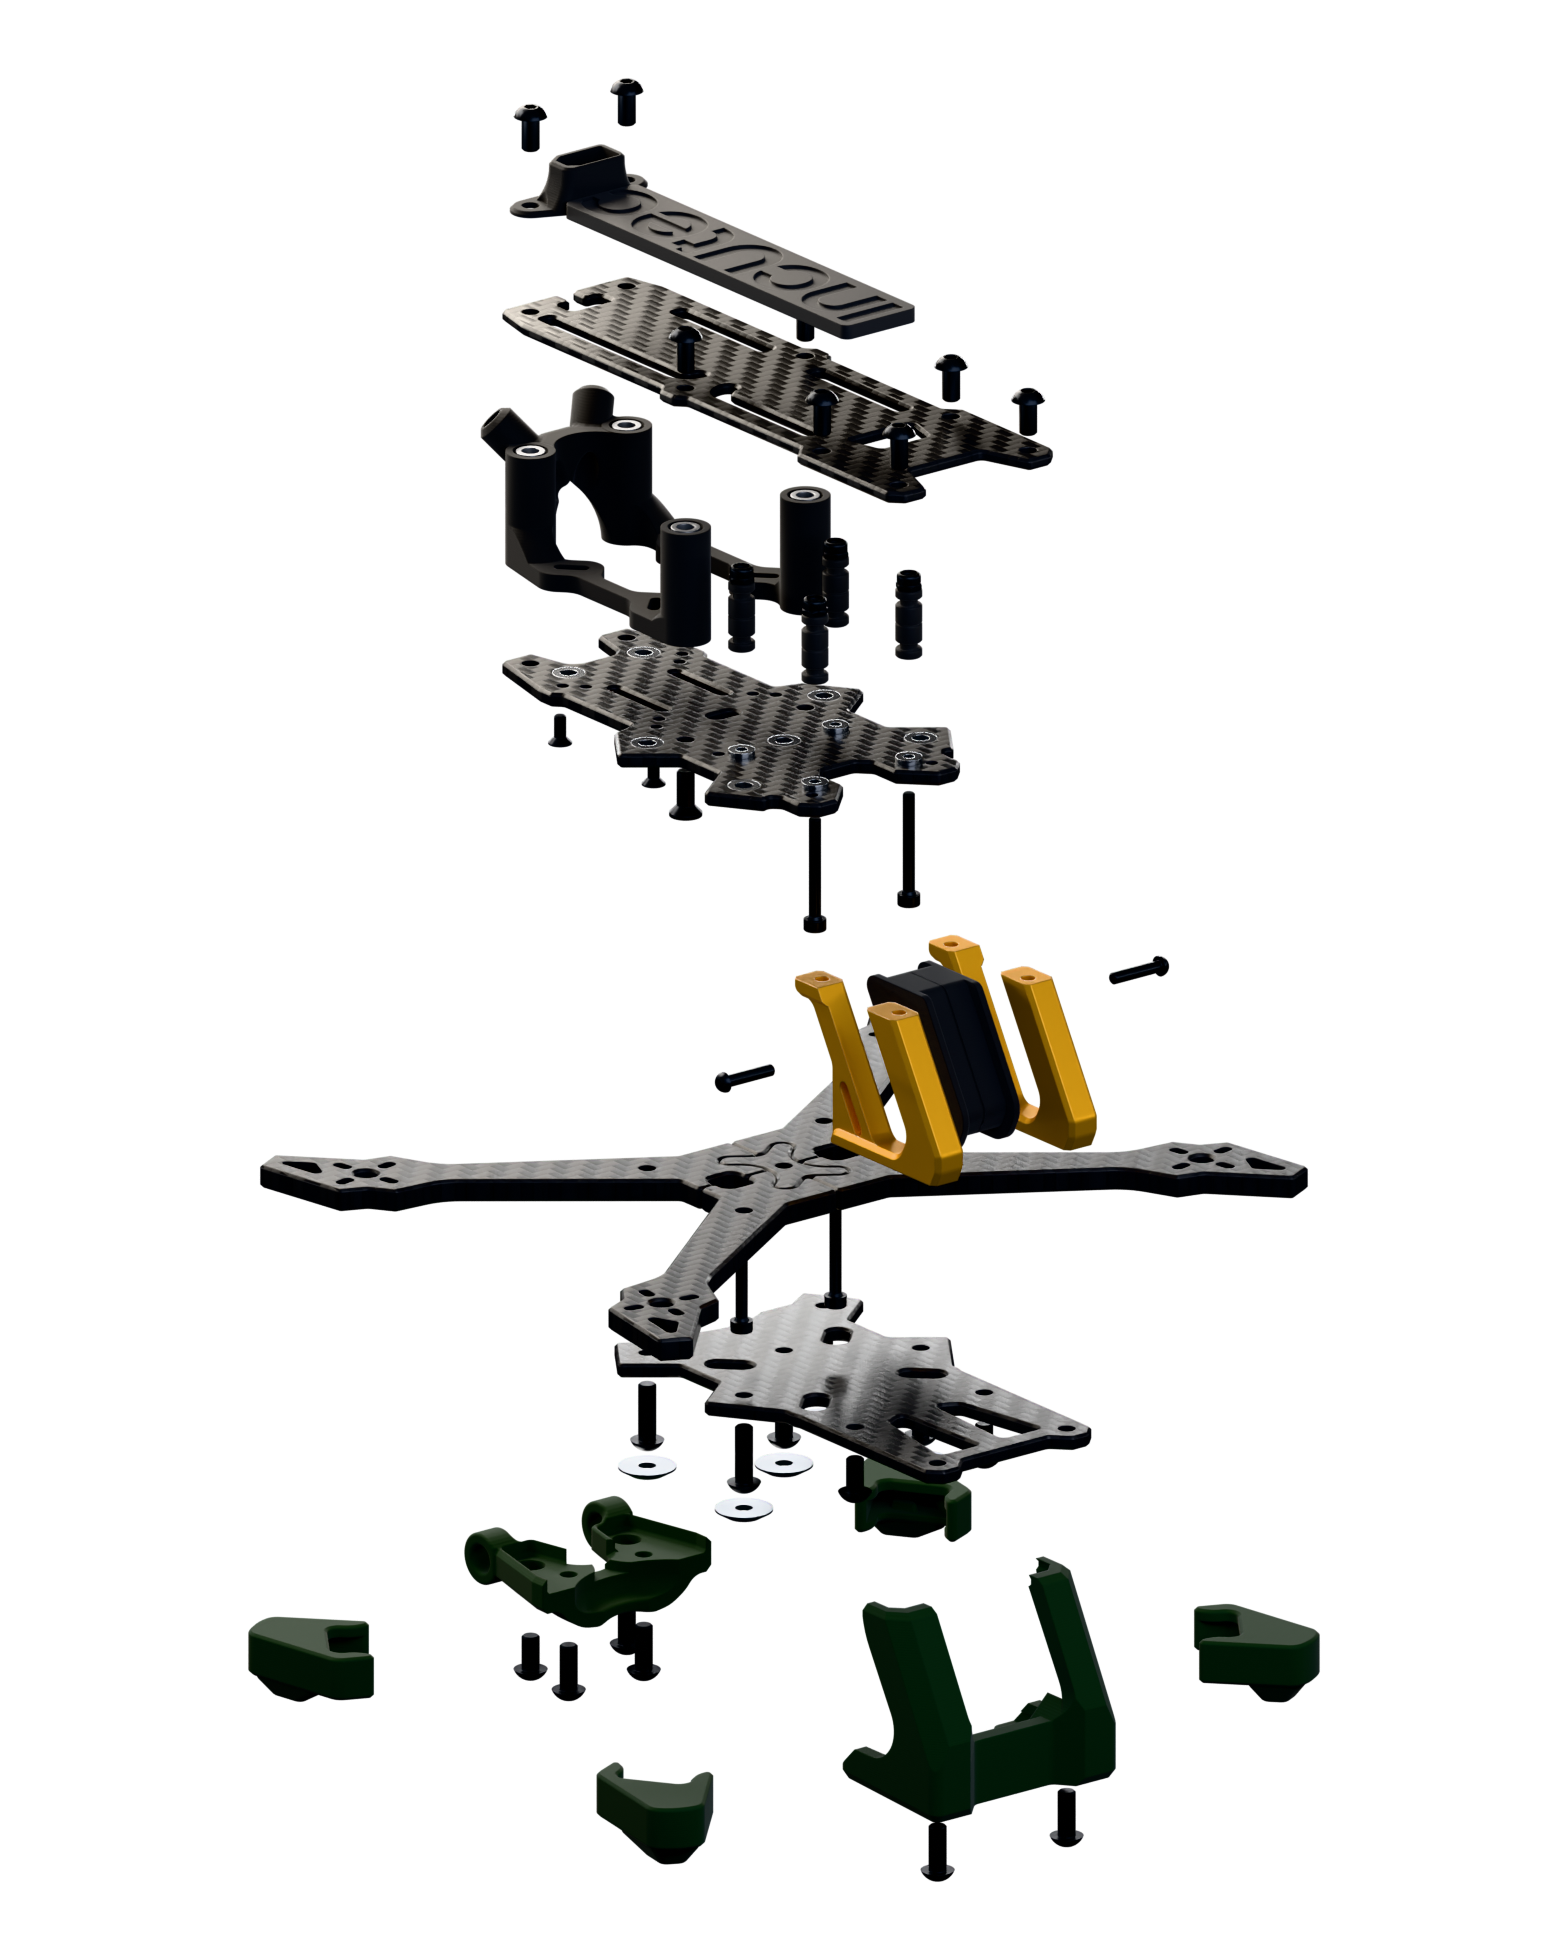
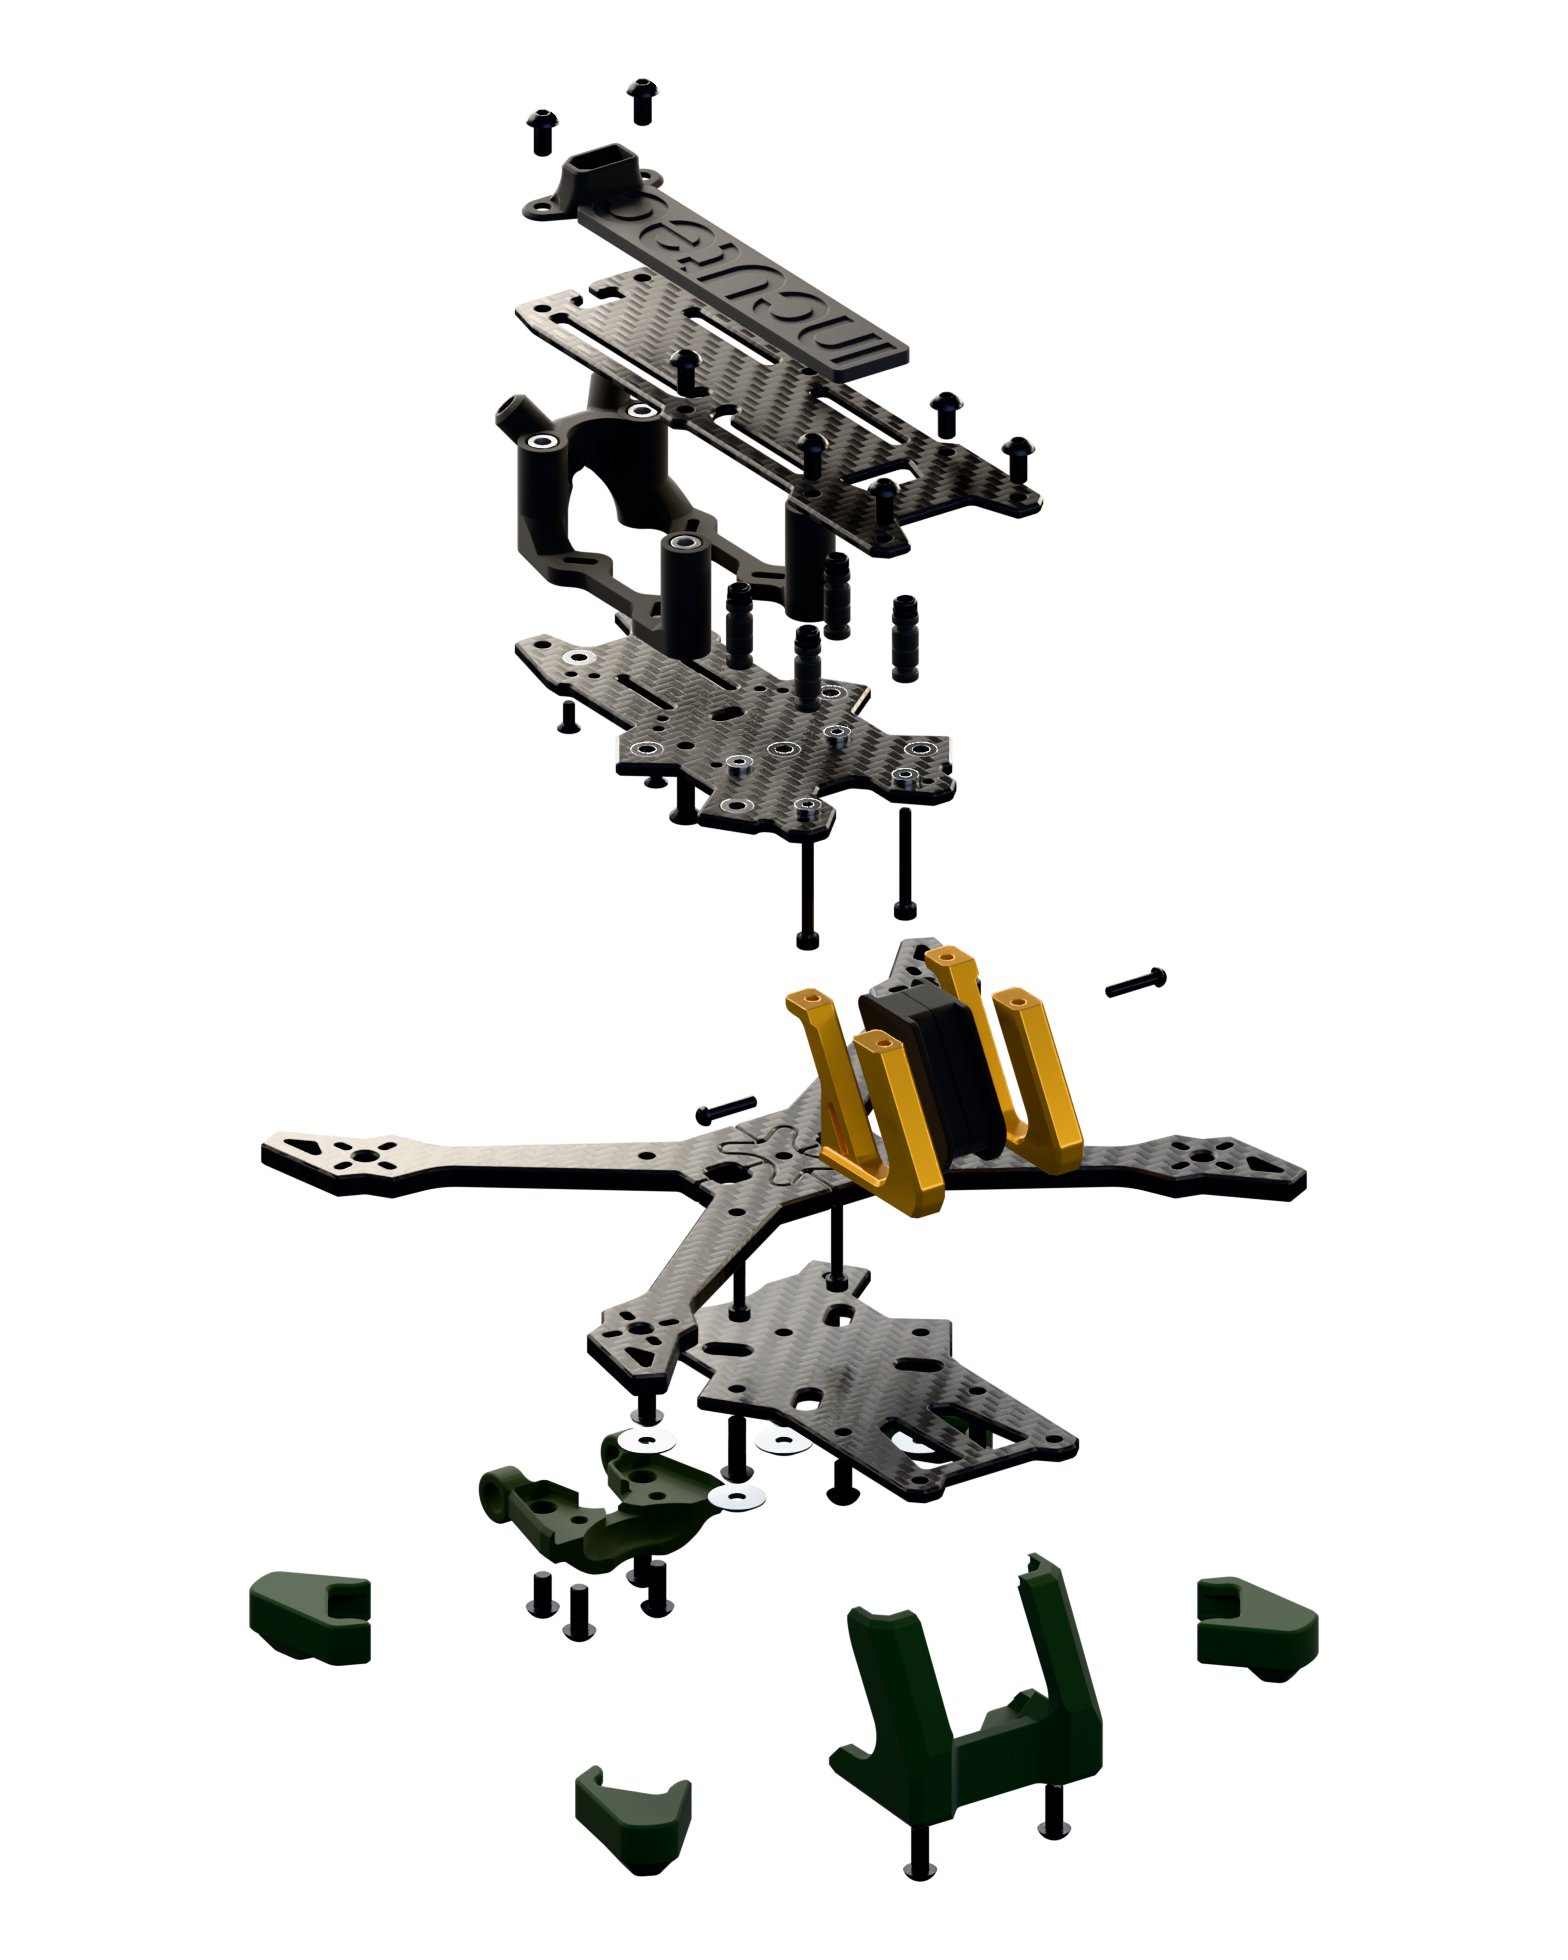
images: canonical renders from hardware-tooling frame_render (assembly, exploded, top, kit, spare parts)
The same images are the README and the shop product shots. Profile in cad/render.json; regenerate with
hardware/frame_render/render.py (hardware-tooling #42).

diff --git a/AGENTS.md b/AGENTS.md
@@ -12,6 +12,7 @@ mechanical repository template. Use the Onshape skill for any CAD work.
 | Release | `onshape_release.py cad/onshape.json --version <rev> --apply`, then one commit adding `releases/<rev>/` |
 | License | CERN-OHL-S-2.0 |
 
+- `images/` is generated, never edited by hand: `python3 <hardware-tooling>/hardware/frame_render/render.py . --step <assembly.step>` from the profile `cad/render.json` (the same images are the GitHub README and the shop product shots; `--shop <dir>` writes those).
 - Never edit a file under `releases/`. Fix the model in Onshape and release a new revision.
 - A part added, removed or re-counted in the Onshape assembly changes `bom.csv` in the same pull request.
 - The 3" and 5" frames share one Part Studio in OpenDrone-V2; a change to a shared part affects both repositories.
